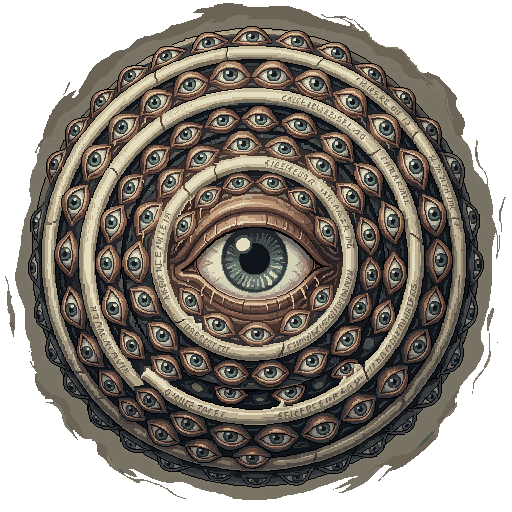
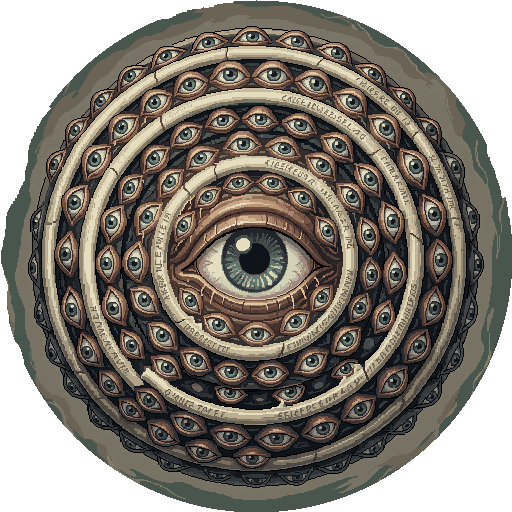
가장자리에서 기운이 퍼져 나가다 - AuraRipple
## 원형에는 세로로 미는 셰이더가 안 맞는다

오로라를 PortalWave로 흔들었더니 폭을 2에서 16까지 올려도 "일렁인다"가
아니라 "그림이 흔들린다"로 보였다. 세로로만 미는 물건이라 그렇다.

AuraRipple을 새로 만들었다. 가운데에서 바깥으로 밀고, 물결이 밖으로
흘러나간다. 가운데는 멎어 있어야(calm_radius) 물건이 물결치는 게 아니라
거기서 뭔가 뿜어져 나오는 것으로 읽힌다.

## 배경이 검정이면 덜 지워도 손해가 없다

오로라가 잘려 보인다고 하셔서 도려내는 문턱을 0.62에서 0.44로 낮췄다
(지운 양 27% -> 22%). 남는 것은 어두운 찌꺼기인데 검정 위에서는 안
보이고, 오히려 오로라가 잘리는 쪽이 눈에 띈다.

## 작업일지

오늘 저녁 조우 화면 작업을 옮겨 적었다. 되풀이해서 걸렸던 것 - 걸은
거리와 시간을 섞어 쓴 것, 되감기는 자리를 안 감춘 것, 씨앗을 슬롯
번호로 뽑은 것 - 을 따로 묶었다.

다음에 할 것도 적었다: 일렁임에 물결 겹치기, 다가갈수록 세상이 걷히기,
그것이 화면을 넘어가기.

diff --git a/작업일지.md b/작업일지.md
@@ -1158,13 +1158,69 @@ create_image_pixen  512x512  no_background  lineless  highly detailed  side  see
 **깨져 있던 것을 고쳤다**: `WalkScene.START_PHOTO`가 저장소에 없는 `gate_3.png`를 가리키고
 있어서 `Walk.tscn`을 열면 그대로 죽었다. 다른 컴퓨터에서 만들고 안 올린 파일로 보인다.
 
+### 조우 화면에 공간을 세웠다 (2026-08-13 저녁) — 전부 0 gen
+
+**원근은 나누기 하나다.** `_post(옆거리, 높이, 깊이)` 하나로 세상 좌표를 화면으로 옮긴다
+(`화면 = 소실점 + 세상값 / 깊이`). 바닥·천장·책장·등·정육면체가 전부 이 함수를 쓰고,
+원근 계산을 따로 한 곳이 없다. **이걸 먼저 만들었으면 훨씬 빨랐다.**
+
+- **바닥이 있어야 서 있는 자리가 잡힌다.** 소실점을 동심 사각형으로 둘러싸던 것은 복도가
+  아니라 터널 정면으로 읽혔다
+- **세로선은 안 움직이고 가로선만 다가온다.** 앞으로 곧게 걸을 때 실제로 그렇고, 전부 같이
+  움직이면 눈이 안 속는다
+- 가로선 간격은 **거리의 역수**다. 균등하게 놓으면 바닥이 눕지 않고 벽처럼 선다
+- **책장은 옆면이 있어야 상자가 된다.** 정면 사각형만 그리면 아무리 꾸며도 평면이다
+- 책은 **높이가 들쭉날쭉한 세로 막대**다. 틀과 가로줄만으로는 그냥 상자다
+
+### ★ 되풀이해서 걸린 것 — 두 종류의 시간
+
+**걸은 거리(`_flow`)와 시간을 섞어 쓰면 안 된다.** 떠 있는 정육면체의 흔들림을 `_flow`에
+물렸더니 **서 있으면 통째로 멎었다.** 다가오는 것은 거리에, 살아 있는 것은 시간에 물린다.
+
+**되감기는 자리를 감춰야 한다.** 깊이가 순환하므로 무엇이든 한 번은 사라진다. 문턱을 두고
+끊으면 눈앞에서 툭 꺼진다 - 흐려지며 사라지게 해서 그 순간을 감춘다(책, 정육면체 둘 다).
+
+**씨앗을 슬롯 번호로 뽑으면 안 된다.** `_flow`가 정수를 넘을 때마다 슬롯이 한 칸씩 밀려서
+(눈에는 이어져 보인다) 모든 책장의 책이 한꺼번에 갈렸다. `i + floor(_flow)`가 그 책장의
+진짜 번호다.
+
+### ★ 잘라낸 것이 분위기였다
+
+`watcher.png` 배경을 도려낼 때 반지름 마스크로 고리 바깥의 옅은 테를 쳐냈다. 배경 찌꺼기로
+봤는데 **검은 화면에 올려놓으니 오로라로 읽혔다.** 마스크를 풀고 문턱도 낮춰 되살렸다.
+
+**배경이 검정이면 덜 지워도 손해가 없다.** 남는 것은 어두운 찌꺼기인데 검정 위에서는 안
+보이고, 오히려 오로라가 잘리는 쪽이 눈에 띈다.
+
+원본을 `watcher_raw.png`에 남겨둔 덕에 되돌릴 수 있었다. **도려내는 도구는 원본을 건드리지 말 것.**
+
+### ★ 원형에는 세로로 미는 셰이더가 안 맞는다
+
+오로라를 `PortalWave`(세로로 민다)로 흔들었더니 폭을 2에서 16까지 올려도 "일렁인다"가
+아니라 **"그림이 흔들린다"**로 보였다. `AuraRipple.gdshader`를 새로 만들었다 - 가운데에서
+바깥으로 밀고 물결이 밖으로 흘러나간다.
+
+**가운데는 멎어 있어야 한다**(`calm_radius`). 그래야 물건이 물결치는 게 아니라 거기서 뭔가
+뿜어져 나오는 것으로 읽힌다.
+
+그것은 아주 느리게 오르내리고 돈다(한 바퀴 100초). **살아 있는지 아닌지 알 수 없을 만큼**
+느려야 한다 - 빠르면 기계가 되고, 멎어 있으면 그림이 된다.
+
 ### 다음에 할 것
 
-1. **조우 화면에 입체감이 없다.** 사각 테가 소실점을 중심으로 균등하게 벌어져서 복도가 아니라
-   터널 정면으로 읽힌다. 소실점을 더 올리고 **바닥면만** 격자로 깔아야 서 있는 자리가 잡힌다
-2. **서고다운 것을 넣는다**(회원님). 양옆으로 물러나는 책장 윤곽, 떠다니는 책·종이,
-   바닥의 글자 격자. 선으로만 그리니 **0 gen**이다
-3. 서고 맵 타일 — 지금은 바닥뿐이고 벽·책장이 없다. 어림 5 gen
+회원님 주문: **"조금 더 기괴하고 압도감이 있으면 좋겠다."** 셋으로 나눴고 서로 안 얽힌다.
+
+1. **일렁임에 물결을 하나 더 겹친다.** 지금은 고른 사인파 하나라 얌전하다. 주기가 다른 둘을
+   겹치면 박자가 안 맞아 불규칙하게 꿈틀거린다 — 살아 있는데 짐승은 아닌 것으로 읽힌다
+2. **다가갈수록 세상이 걷힌다.** 가까울수록 바닥·책장·천장이 흐려져서 끝에는 **그것과 내
+   등불만** 남는다. 지금은 끝까지 복도가 그대로라 도착한 느낌이 없다. **이게 제일 세다**
+3. **그것이 화면을 넘어간다.** 지금은 얌전히 화면 안에 들어온다. 끝에 화면 밖으로 나가도록
+   키우면 "다 안 보인다"가 되고, 안 보이는 것이 무섭다
+
+그 다음: 선의 밝기를 **등불로부터의 거리**에 물린다. 그러면 *"등불이 비추는 것만 실재한다"*가
+장식이 아니라 화면 규칙이 된다.
+
+그리고 서고 맵 타일 — 지금은 바닥뿐이고 벽·책장이 없다. 어림 5 gen
 
 ### 겪은 것
 
